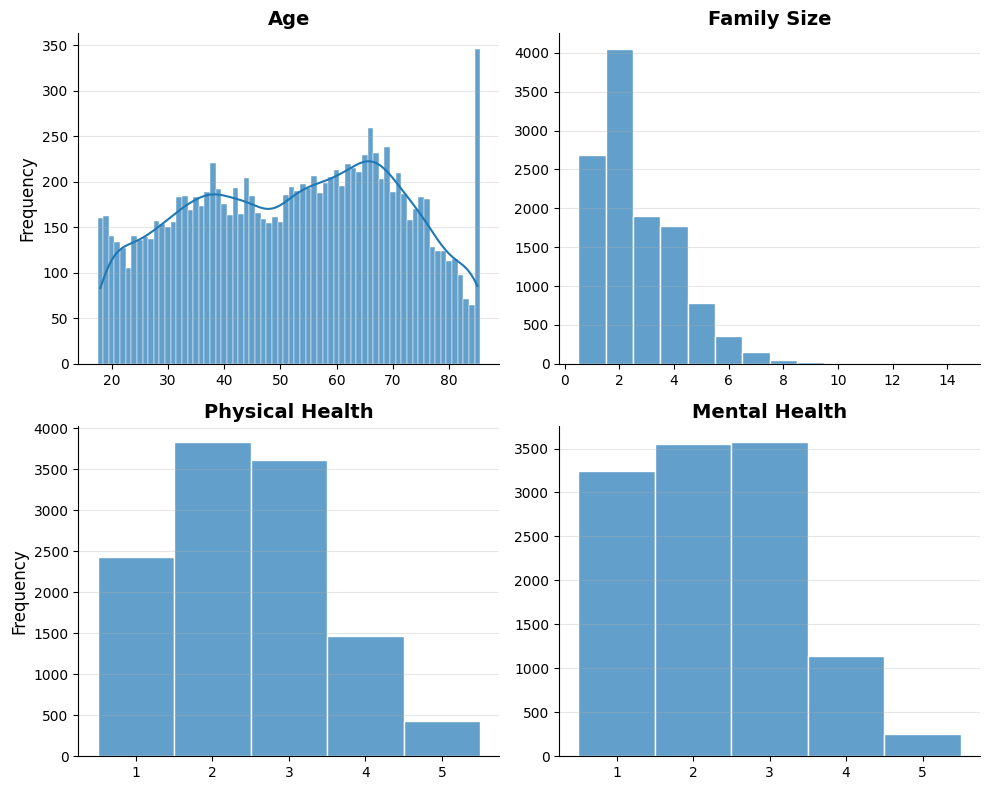
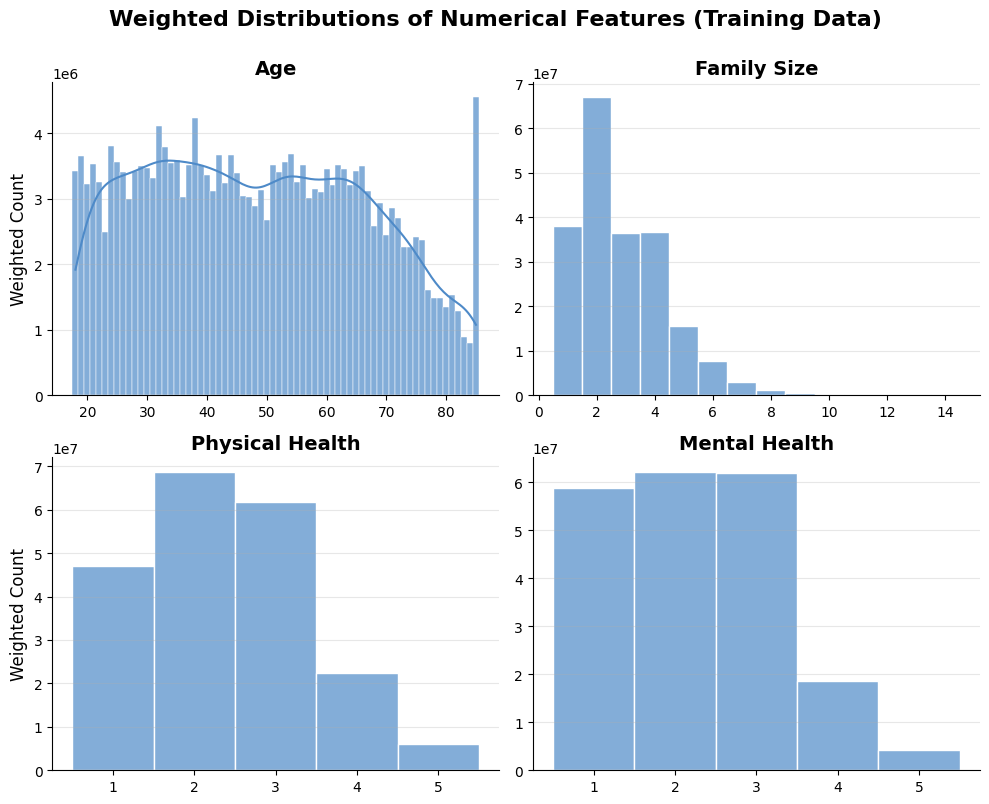
feat(eda) add weighted distributions of numerical features using a histogram matrix

diff --git a/notebooks/medical_cost_prediction.py b/notebooks/medical_cost_prediction.py
@@ -1351,6 +1351,7 @@ X_train[numerical_features].describe().T.style.format({
 # </div>
 
 # %%
+# Sample Distributions 
 # Create 2x2 subplot grid
 fig, axes = plt.subplots(2, 2, figsize=(10, 8))
 
@@ -1380,6 +1381,46 @@ for i, feature in enumerate(numerical_features):
     ax.grid(True, axis="y", alpha=0.3)  # Adds grid lines
     sns.despine(ax=ax)  # Removes top & right spines
 
+fig.tight_layout()  # Adjusts layout to prevent overlap
+
+# Show histogram matrix
+plt.show()
+
+# %%
+# Weighted Distributions
+# Create 2x2 subplot grid
+fig, axes = plt.subplots(2, 2, figsize=(10, 8))
+
+# Flatten the axes for easier iteration
+axes = axes.flat
+
+# Iterate over all numerical features
+for i, feature in enumerate(numerical_features):
+    # Get the current axes
+    ax = axes[i]
+
+    # Create weighted histogram for the current feature
+    sns.histplot(
+        data=X_train, 
+        x=feature,
+        weights="PERWT23F",  # Sample weights
+        ax=ax,
+        discrete=True,                               # Centers bars on integers 
+        kde=True if feature == "AGE23X" else False,  # Adds a density curve for age
+        edgecolor="white",                           # Adds white border lines between bars
+        alpha=0.7,
+        color="#4e8ac8"                              # Different color to distinguish from sample
+    )
+
+    # Customize histogram
+    ax.set_title(display_labels[feature], fontsize=14, fontweight="bold") 
+    ax.set_xlabel("")
+    ax.set_ylabel("Weighted Count" if i % 2 == 0 else "", fontsize=12)  # Y-label indicates population
+    ax.grid(True, axis="y", alpha=0.3)  # Adds grid lines
+    sns.despine(ax=ax)  # Removes top & right spines
+
+# Customize matrix
+fig.suptitle("Weighted Distributions of Numerical Features (Training Data)", fontsize=16, fontweight="bold", y=1)  # Adds title
 fig.tight_layout()  # Adjusts layout to prevent overlap
 
 # Show histogram matrix
